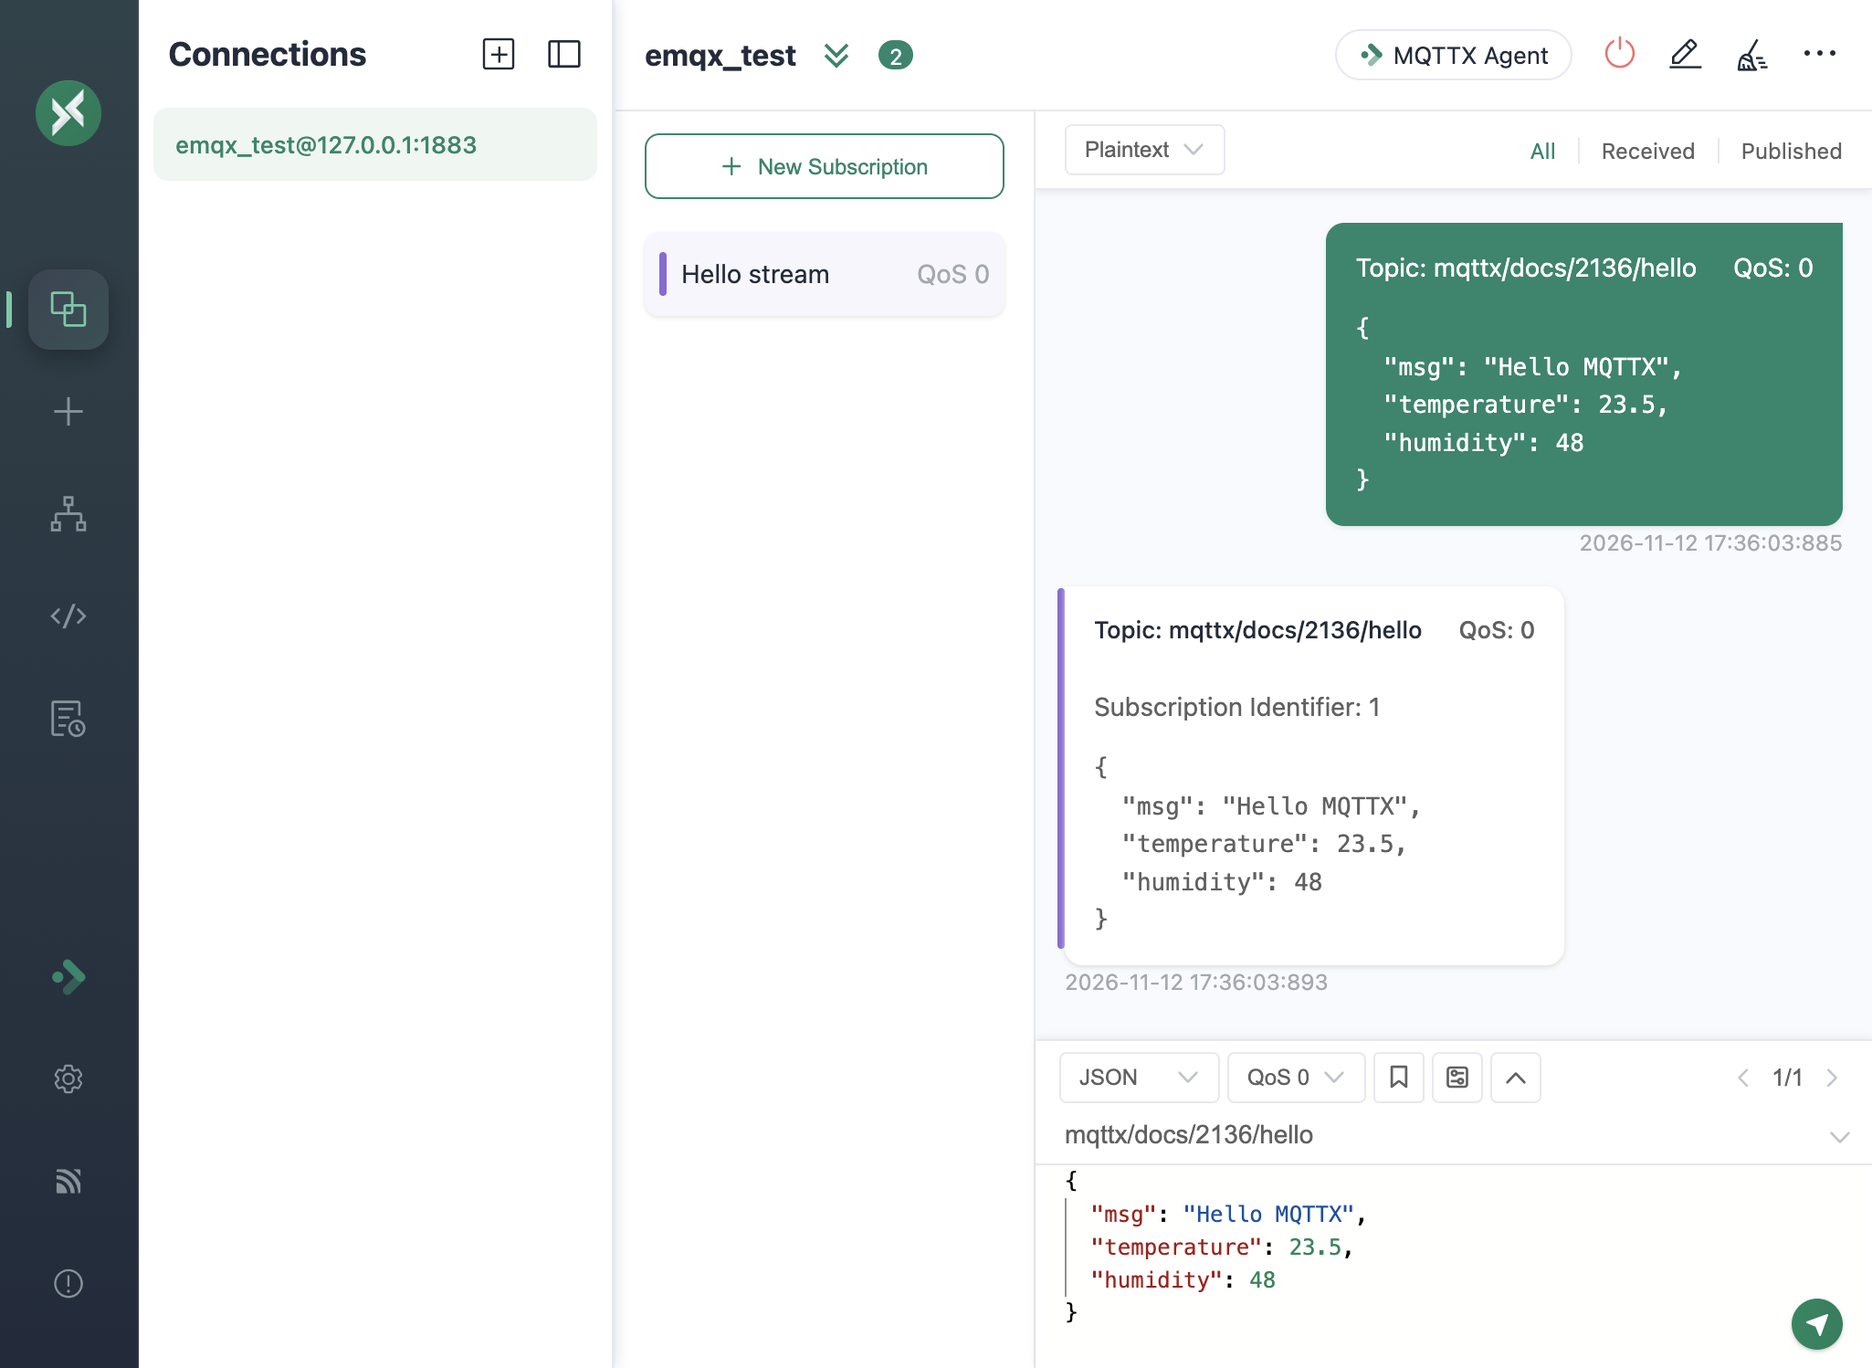
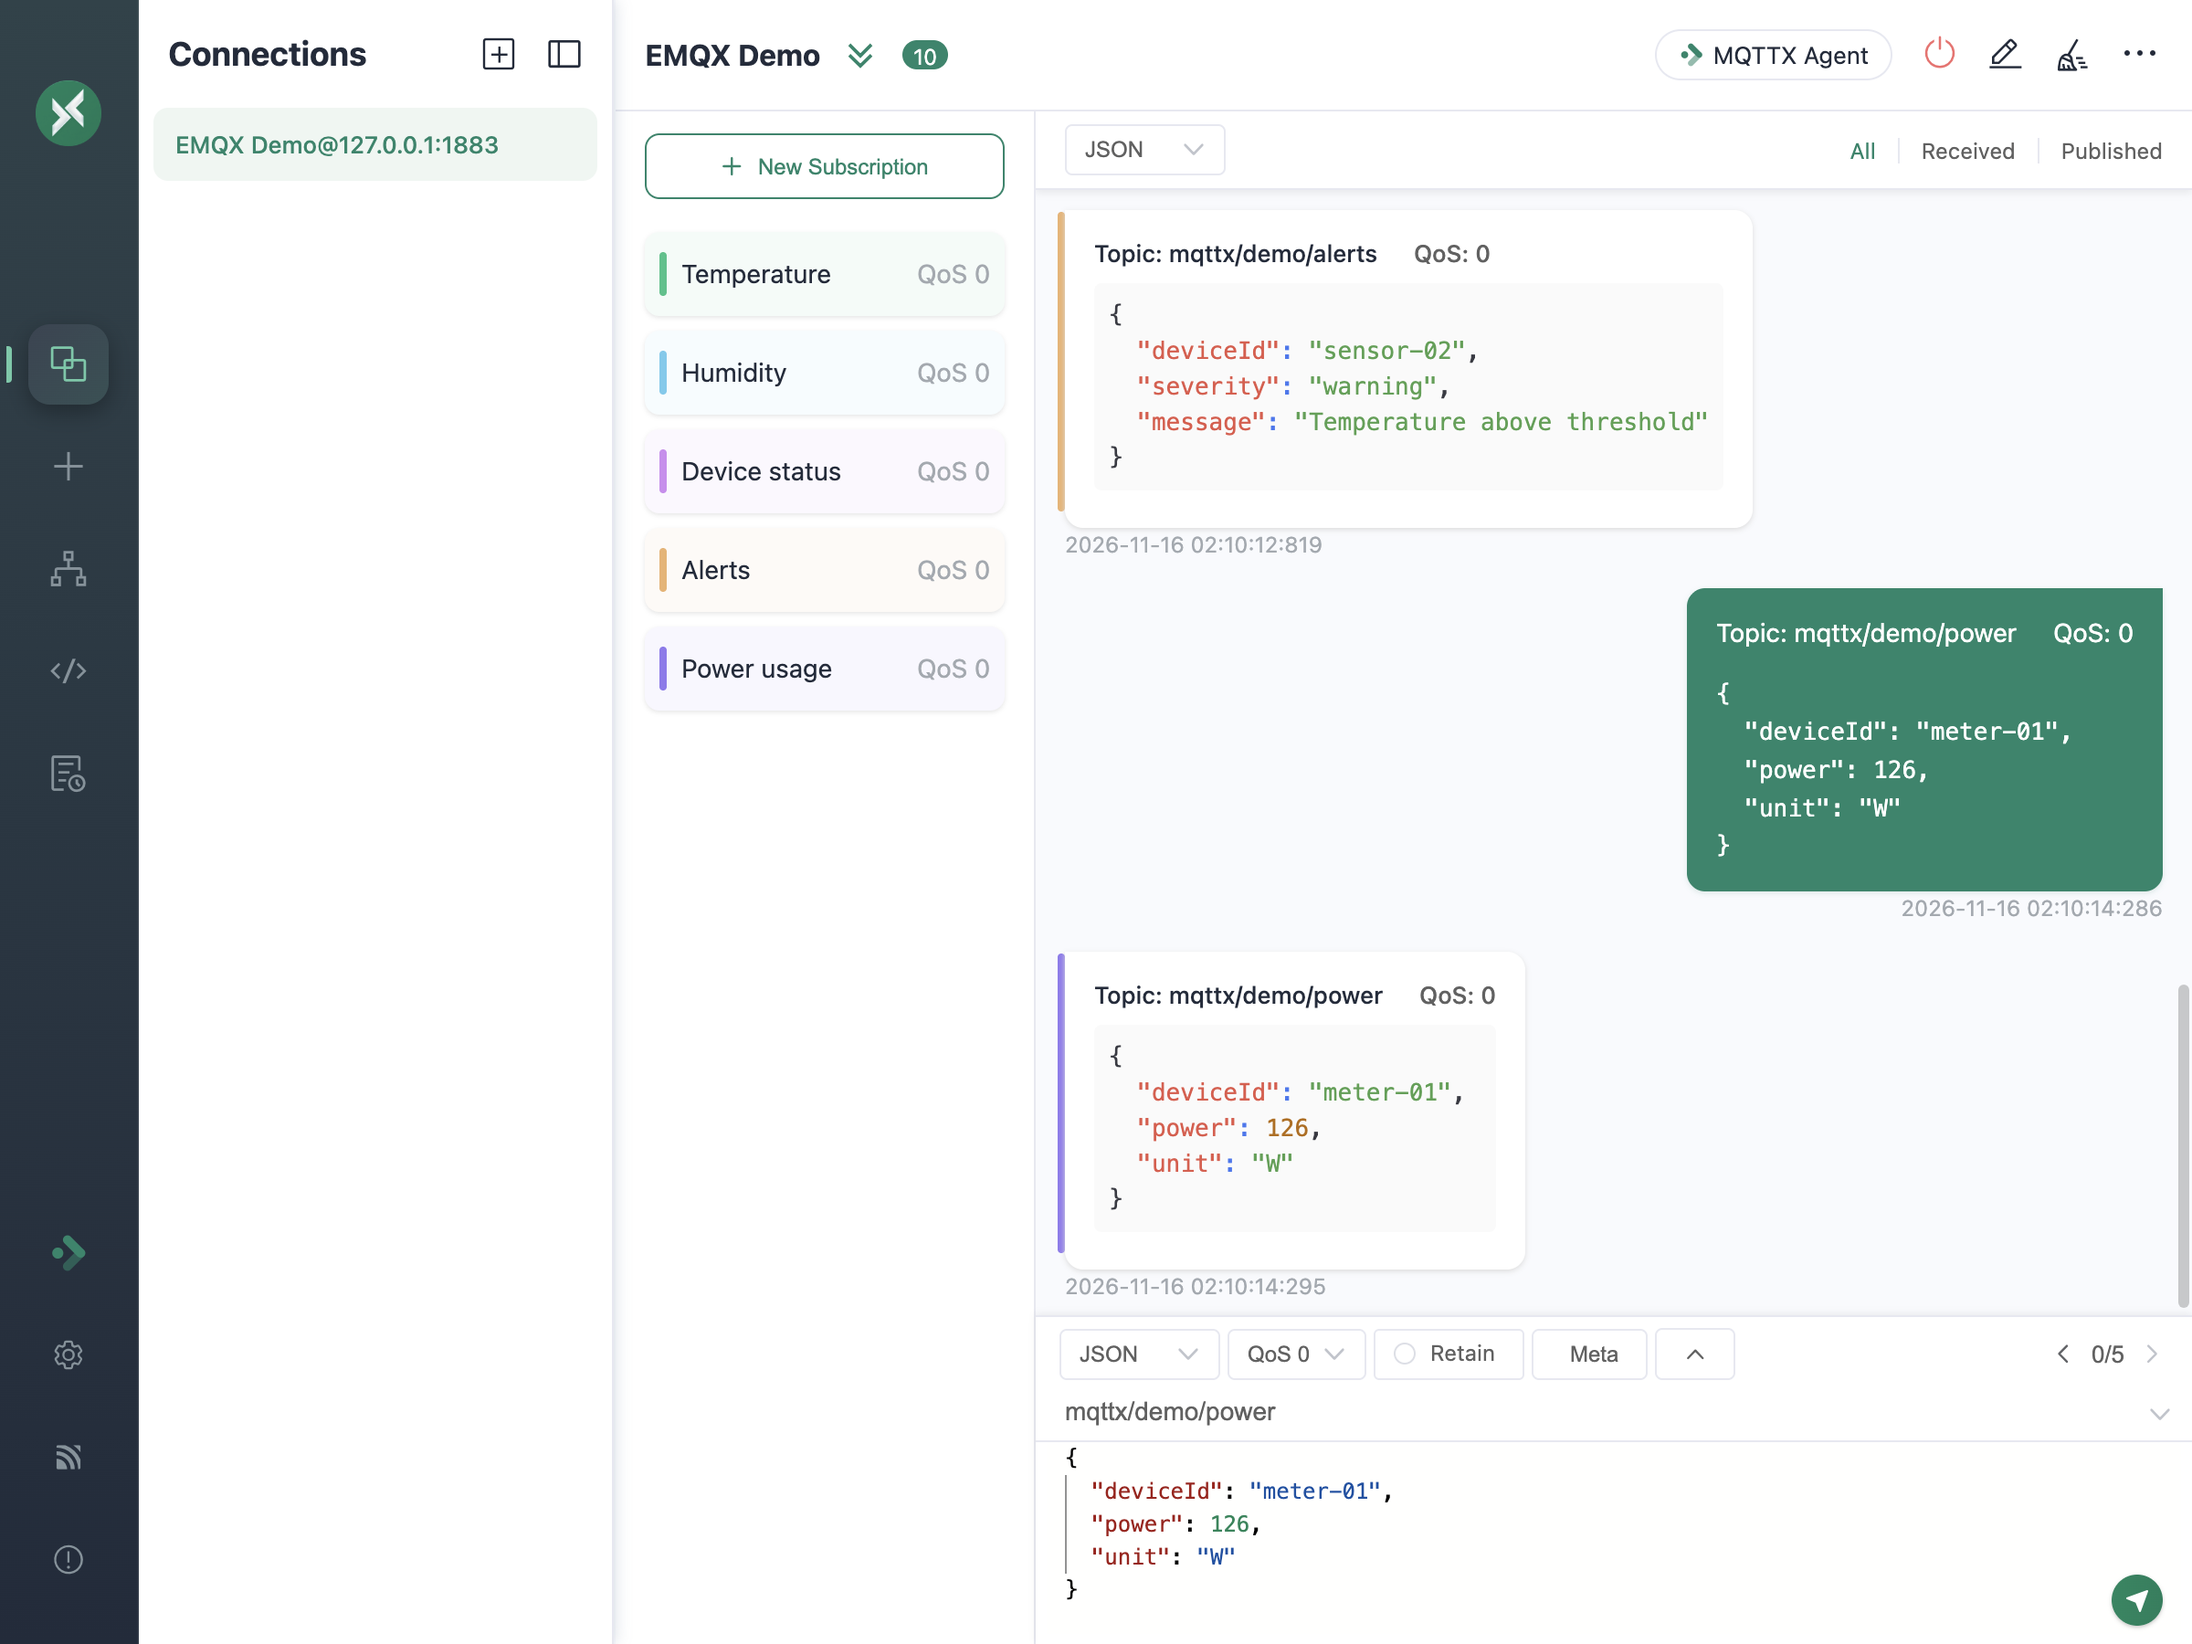
docs: improve README theme previews and demo playback

diff --git a/README-JP.md b/README-JP.md
@@ -1,4 +1,8 @@
-<img src="./assets/mqttx-logo.png" width="480" alt="MQTTX Logo" />
+<picture>
+  <source media="(prefers-color-scheme: dark)" srcset="./assets/mqttx-logo-dark.png" />
+  <source media="(prefers-color-scheme: light)" srcset="./assets/mqttx-logo.png" />
+  <img src="./assets/mqttx-logo.png" width="480" alt="MQTTX Logo" />
+</picture>
 
 [![GitHub Release](https://img.shields.io/github/release/emqx/mqttx?color=brightgreen)](https://github.com/emqx/mqttx/releases)
 ![Support Platforms](https://img.shields.io/badge/platforms-Windows%20%7C%20Linux%20%7C%20macOS-lightgrey)
@@ -15,7 +19,11 @@
 
 > [MQTT](https://www.emqx.com/ja/blog/the-easiest-guide-to-getting-started-with-mqtt)（Message Queuing Telemetry Transport）は、パブリッシュ/サブスクライブ型の軽量なメッセージングプロトコルです。制約のあるデバイスや、低帯域幅、高遅延、または不安定なネットワークでの利用を想定して設計されています。
 
-![mqttx-preview](./assets/mqttx-preview.png)
+<picture>
+  <source media="(prefers-color-scheme: dark)" srcset="./assets/mqttx-preview-dark.png" />
+  <source media="(prefers-color-scheme: light)" srcset="./assets/mqttx-preview.png" />
+  <img src="./assets/mqttx-preview.png" alt="複数のトピックでメッセージを送受信する MQTTX" />
+</picture>
 
 ## 機能
 

diff --git a/README-CN.md b/README-CN.md
@@ -1,4 +1,8 @@
-<img src="./assets/mqttx-logo.png" width="480" alt="MQTTX Logo" />
+<picture>
+  <source media="(prefers-color-scheme: dark)" srcset="./assets/mqttx-logo-dark.png" />
+  <source media="(prefers-color-scheme: light)" srcset="./assets/mqttx-logo.png" />
+  <img src="./assets/mqttx-logo.png" width="480" alt="MQTTX Logo" />
+</picture>
 
 [![GitHub Release](https://img.shields.io/github/release/emqx/mqttx?color=brightgreen)](https://github.com/emqx/mqttx/releases)
 ![Support Platforms](https://img.shields.io/badge/platforms-Windows%20%7C%20Linux%20%7C%20macOS-lightgrey)
@@ -15,7 +19,11 @@
 
 > [MQTT](https://www.emqx.com/zh/blog/the-easiest-guide-to-getting-started-with-mqtt)（Message Queuing Telemetry Transport，消息队列遥测传输）是一种基于发布/订阅模式的轻量级消息协议，专为受限设备以及低带宽、高延迟或不可靠的网络而设计。
 
-![mqttx-preview](./assets/mqttx-preview.png)
+<picture>
+  <source media="(prefers-color-scheme: dark)" srcset="./assets/mqttx-preview-dark.png" />
+  <source media="(prefers-color-scheme: light)" srcset="./assets/mqttx-preview.png" />
+  <img src="./assets/mqttx-preview.png" alt="MQTTX 多主题订阅及消息收发界面" />
+</picture>
 
 ## 功能特性
 

diff --git a/README.md b/README.md
@@ -1,4 +1,8 @@
-<img src="./assets/mqttx-logo.png" width="480" alt="MQTTX Logo" />
+<picture>
+  <source media="(prefers-color-scheme: dark)" srcset="./assets/mqttx-logo-dark.png" />
+  <source media="(prefers-color-scheme: light)" srcset="./assets/mqttx-logo.png" />
+  <img src="./assets/mqttx-logo.png" width="480" alt="MQTTX Logo" />
+</picture>
 
 [![GitHub Release](https://img.shields.io/github/release/emqx/mqttx?color=brightgreen)](https://github.com/emqx/mqttx/releases)
 ![platforms](https://img.shields.io/badge/platforms-Windows%20%7C%20Linux%20%7C%20macOS-lightgrey)
@@ -20,7 +24,11 @@
 
 > [MQTT](https://www.emqx.com/en/blog/the-easiest-guide-to-getting-started-with-mqtt) (MQ Telemetry Transport) is a lightweight publish/subscribe messaging protocol designed for constrained devices and for low-bandwidth, high-latency, or unreliable networks.
 
-![mqttx-preview](./assets/mqttx-preview.png)
+<picture>
+  <source media="(prefers-color-scheme: dark)" srcset="./assets/mqttx-preview-dark.png" />
+  <source media="(prefers-color-scheme: light)" srcset="./assets/mqttx-preview.png" />
+  <img src="./assets/mqttx-preview.png" alt="MQTTX publishing and receiving messages across colorful topic subscriptions" />
+</picture>
 
 ## Features
 

diff --git a/cli/README-CN.md b/cli/README-CN.md
@@ -1,4 +1,8 @@
-<img src="https://raw.githubusercontent.com/emqx/MQTTX/main/assets/mqttx-logo.png" width="480" alt="MQTTX Logo" />
+<picture>
+  <source media="(prefers-color-scheme: dark)" srcset="https://raw.githubusercontent.com/emqx/MQTTX/main/assets/mqttx-logo-dark.png" />
+  <source media="(prefers-color-scheme: light)" srcset="https://raw.githubusercontent.com/emqx/MQTTX/main/assets/mqttx-logo.png" />
+  <img src="https://raw.githubusercontent.com/emqx/MQTTX/main/assets/mqttx-logo.png" width="480" alt="MQTTX Logo" />
+</picture>
 
 # MQTTX 命令行工具
 

diff --git a/cli/README.md b/cli/README.md
@@ -1,4 +1,8 @@
-<img src="https://raw.githubusercontent.com/emqx/MQTTX/main/assets/mqttx-logo.png" width="480" alt="MQTTX Logo" />
+<picture>
+  <source media="(prefers-color-scheme: dark)" srcset="https://raw.githubusercontent.com/emqx/MQTTX/main/assets/mqttx-logo-dark.png" />
+  <source media="(prefers-color-scheme: light)" srcset="https://raw.githubusercontent.com/emqx/MQTTX/main/assets/mqttx-logo.png" />
+  <img src="https://raw.githubusercontent.com/emqx/MQTTX/main/assets/mqttx-logo.png" width="480" alt="MQTTX Logo" />
+</picture>
 
 # MQTTX CLI
 

diff --git a/web/README-CN.md b/web/README-CN.md
@@ -1,4 +1,8 @@
-<img src="../assets/mqttx-logo.png" width="480" alt="MQTTX Logo" />
+<picture>
+  <source media="(prefers-color-scheme: dark)" srcset="../assets/mqttx-logo-dark.png" />
+  <source media="(prefers-color-scheme: light)" srcset="../assets/mqttx-logo.png" />
+  <img src="../assets/mqttx-logo.png" width="480" alt="MQTTX Logo" />
+</picture>
 
 # MQTTX Web
 

diff --git a/web/README.md b/web/README.md
@@ -1,4 +1,8 @@
-<img src="../assets/mqttx-logo.png" width="480" alt="MQTTX Logo" />
+<picture>
+  <source media="(prefers-color-scheme: dark)" srcset="../assets/mqttx-logo-dark.png" />
+  <source media="(prefers-color-scheme: light)" srcset="../assets/mqttx-logo.png" />
+  <img src="../assets/mqttx-logo.png" width="480" alt="MQTTX Logo" />
+</picture>
 
 # MQTTX Web
 
